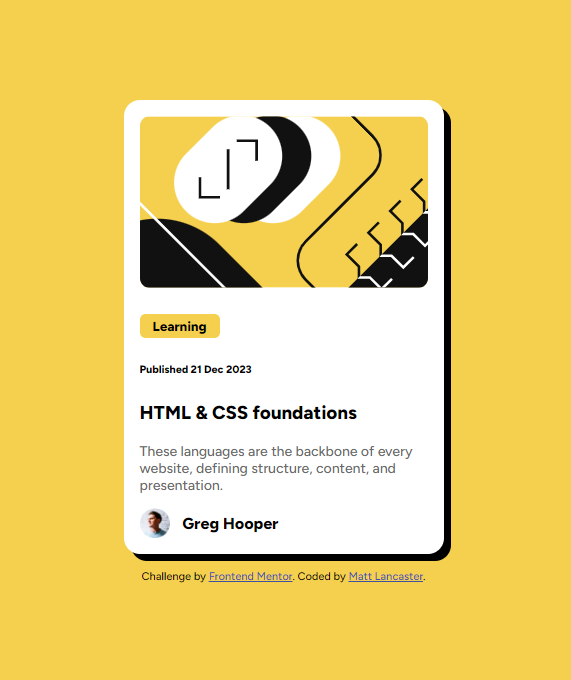
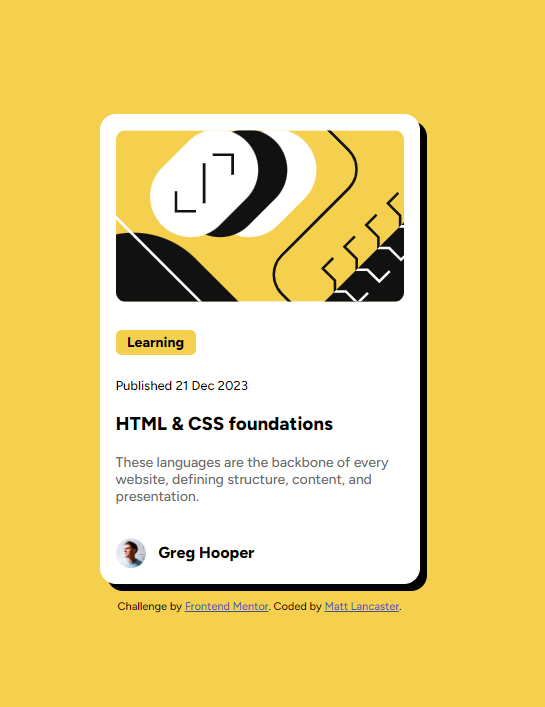
Updated HTML, CSS, and Screenshot after Solution was submitted

Changed region(s): [[0.156, 0.1235, 0.811, 0.8647], [0.5927, 0.2779, 0.6239, 0.3088]]

diff --git a/index.html b/index.html
@@ -1,5 +1,5 @@
 <!DOCTYPE html>
-<html lang="en">
+<html>
 <head>
   <meta charset="UTF-8">
   <meta name="viewport" content="width=device-width, initial-scale=1.0"> <!-- displays site properly based on user's device -->
@@ -29,8 +29,10 @@
       <h3>HTML & CSS foundations</h3>
 
       <p>These languages are the backbone of every website, defining structure, content, and presentation.</p>
+      <br>
       <footer>
-        <img class="avatarImg" src="assets/images/image-avatar.webp"> <text>Greg Hooper</text>
+        <img class="avatarImg" src="assets/images/image-avatar.webp" alt="User Image">
+        <text>Greg Hooper</text>
       </footer>
     </section>
   <div class="attribution">

diff --git a/style/site.css b/style/site.css
@@ -1,3 +1,4 @@
+
 body {
 	background-color: hsl(47, 88%, 63%);
 	font-size: 16px;
@@ -31,6 +32,13 @@ h5 {
 	border-radius: 0.35rem;
 	padding: .25rem;
 	text-align: center;
+	font-size:14px;
+}
+
+h6 {
+	font-weight: 500;
+	font-size: 13px;
+	margin:0;
 }
 
 p {
